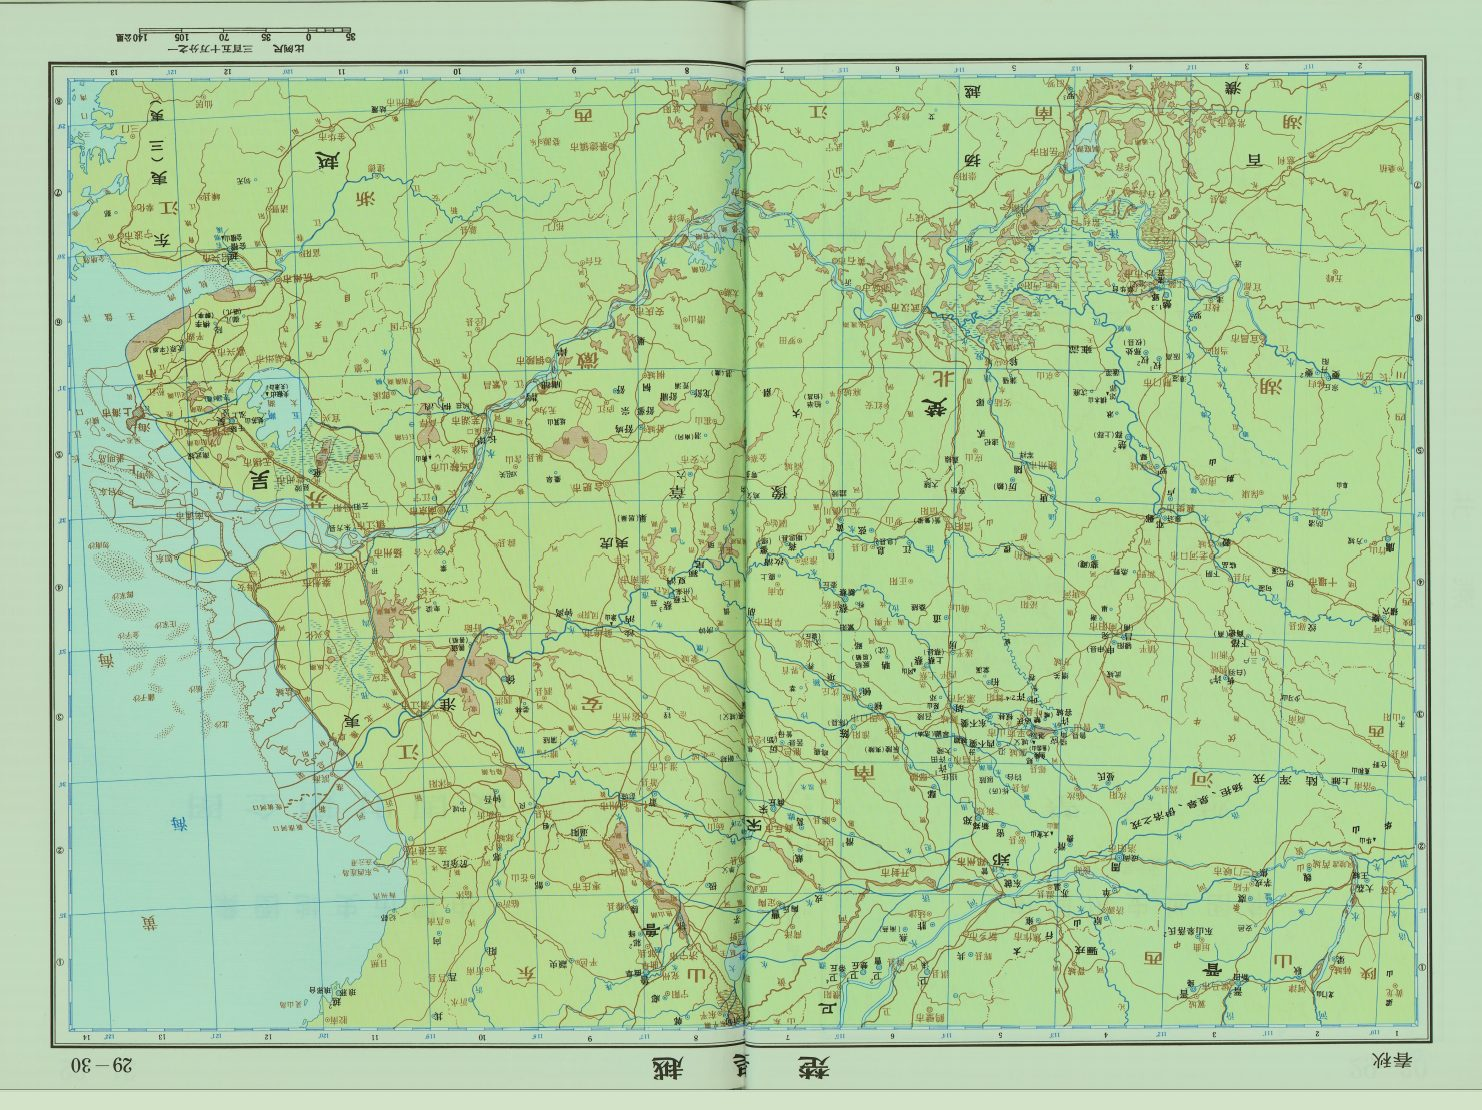
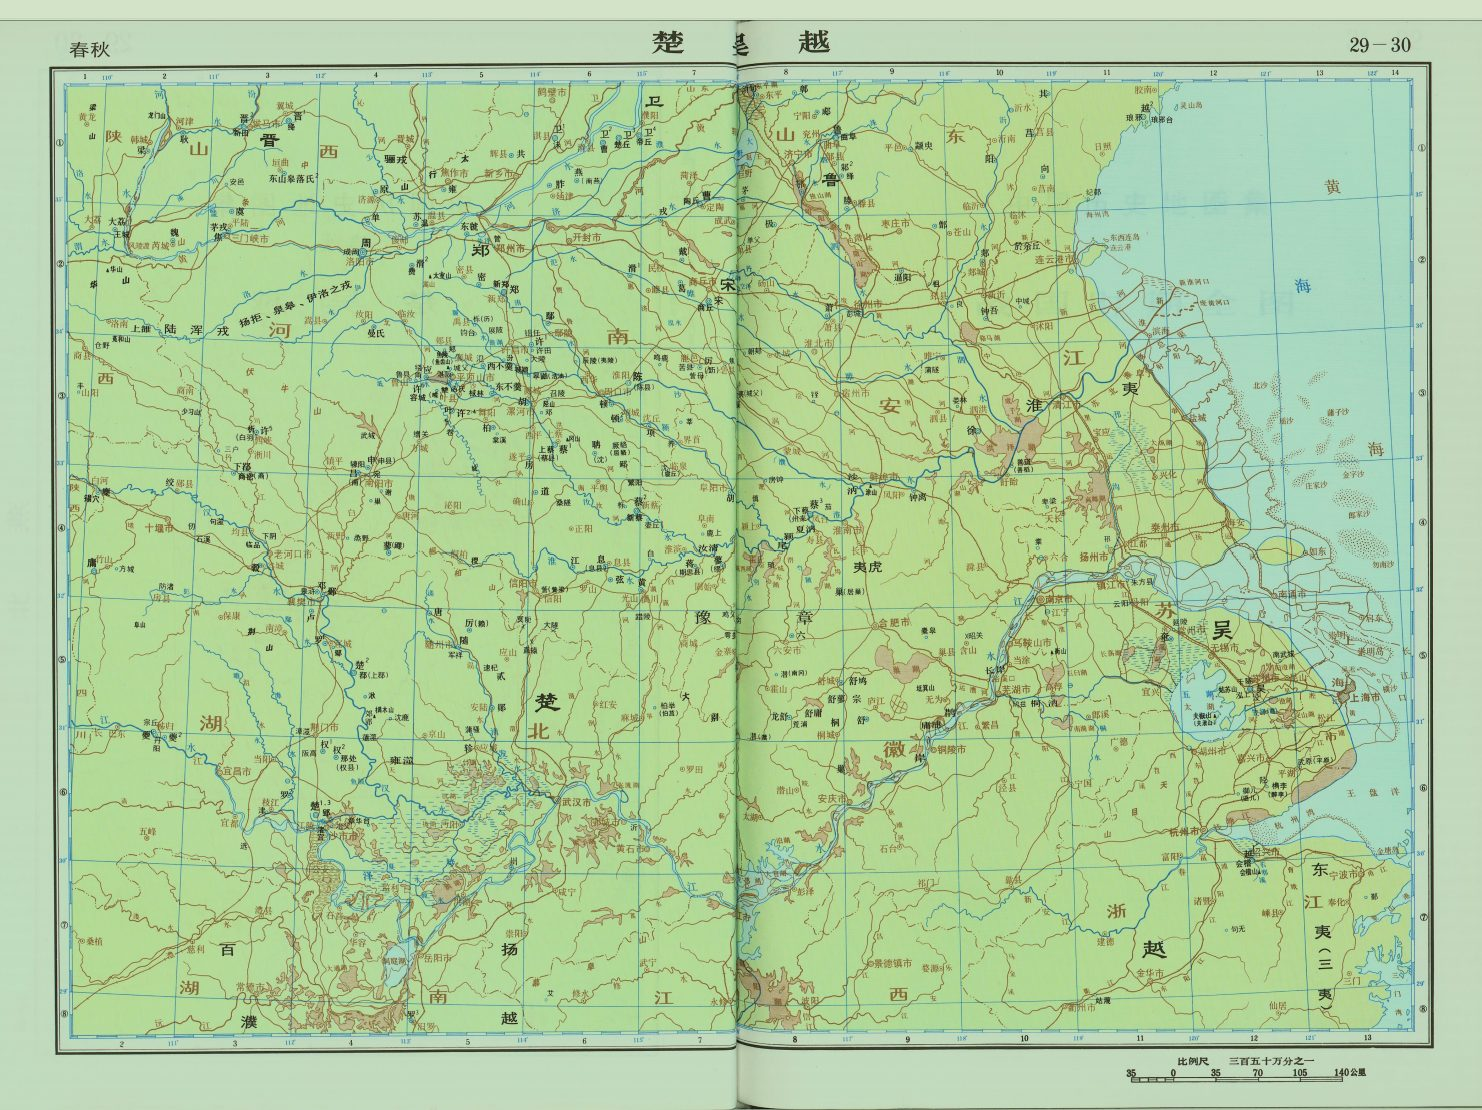
fix(譚圖): 213643「楚吴越」圖上下翻正（順時針90→逆時針90）；圖檔版本 v=5

diff --git a/index.html b/index.html
@@ -1180,7 +1180,7 @@ function azMapView(){
   var img=document.createElement("img");
   img.alt=(m?m.title:"譚圖")+" 原圖";
   img.loading="lazy";
-  img.src="atlas-img/"+AZ_SEL.map+".jpg?v=4";
+  img.src="atlas-img/"+AZ_SEL.map+".jpg?v=5";
   img.title="點圖可放大／縮回";
   img.onclick=function(){ img.classList.toggle("zoomed"); };
   img.onerror=function(){
